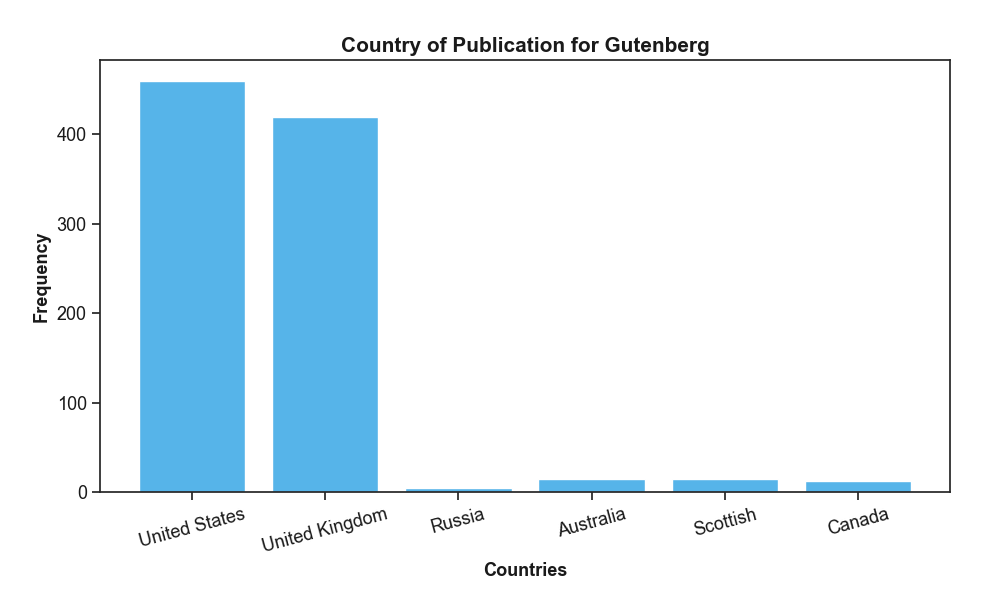
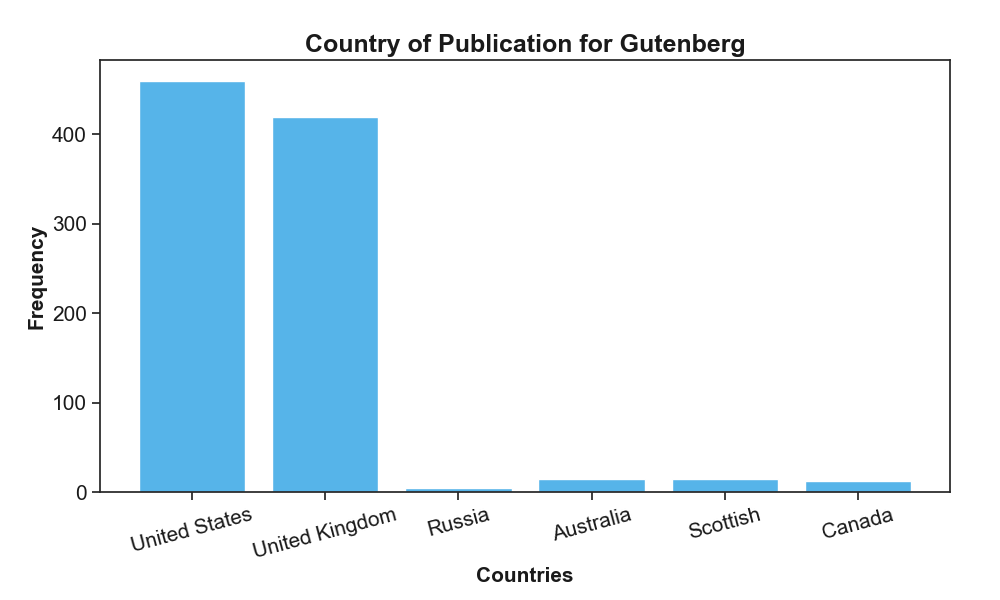
Made fonts of graphs bigger to improve legibility

diff --git a/gender_novels/analysis/visualizations/datagraphs_functions.py b/gender_novels/analysis/visualizations/datagraphs_functions.py
@@ -16,12 +16,12 @@ def plt_pubyears(pub_years,corpus_name):
     plt.figure(figsize=(10,6))
     bins=[num for num in range(min(pub_years),max(pub_years)+4,5)]
     plt.hist(pub_years,bins,histtype='bar',rwidth=.8,color='c')
-    plt.xlabel('Year', size=13,weight='bold',color='k')
-    plt.ylabel('Frequency',size=13,weight='bold',color='k')
-    plt.title('Publication Year Concentration for '+corpus_name.title(),size=15,weight='bold',
+    plt.xlabel('Year', size=15,weight='bold',color='k')
+    plt.ylabel('Frequency',size=15,weight='bold',color='k')
+    plt.title('Publication Year Concentration for '+corpus_name.title(),size=18,weight='bold',
               color='k')
-    plt.yticks(size=13,color='k')
-    plt.xticks([i for i in range(min(pub_years),max(pub_years)+9,10)],size=13,color='k')
+    plt.yticks(size=15,color='k')
+    plt.xticks([i for i in range(min(pub_years),max(pub_years)+9,10)],size=15,color='k')
     for label in ax1.xaxis.get_ticklabels():
         label.set_rotation(60)
     plt.subplots_adjust(left=.1,bottom=.18,right=.95,top=.9)
@@ -54,12 +54,12 @@ def plt_pubcountries(pub_country,corpus_name):
     for label in ax1.xaxis.get_ticklabels():
         label.set_rotation(15)
     plt.bar(x,y,color='c')
-    plt.xlabel('Countries',size=13,weight='bold',color='k')
-    plt.ylabel('Frequency',size=13,weight='bold',color='k')
-    plt.title('Country of Publication for '+corpus_name.title(),size=15,color='k',
+    plt.xlabel('Countries',size=15,weight='bold',color='k')
+    plt.ylabel('Frequency',size=15,weight='bold',color='k')
+    plt.title('Country of Publication for '+corpus_name.title(),size=18,color='k',
               weight='bold')
-    plt.xticks(color='k',size=13)
-    plt.yticks(color='k',size=13)
+    plt.xticks(color='k',size=15)
+    plt.yticks(color='k',size=15)
     plt.subplots_adjust(left=.1,bottom=.18,right=.95,top=.9)
     plt.savefig('country_of_pub_for_'+corpus_name+'.png')
 
@@ -88,7 +88,7 @@ def plt_gender_breakdown(pub_gender,corpus_name):
     colors=['c','b','g']
     plt.figure(figsize=(10,6))
     plt.pie(slices,colors=colors,labels=labelgenders,textprops={'fontsize':15})
-    plt.title('Gender Breakdown for '+corpus_name.title(),size=15,color='k',weight='bold')
+    plt.title('Gender Breakdown for '+corpus_name.title(),size=18,color='k',weight='bold')
     plt.legend()
     plt.subplots_adjust(left=.1,bottom=.1,right=.9,top=.9)
     plt.savefig('gender_breakdown_for_'+corpus_name+'.png')
